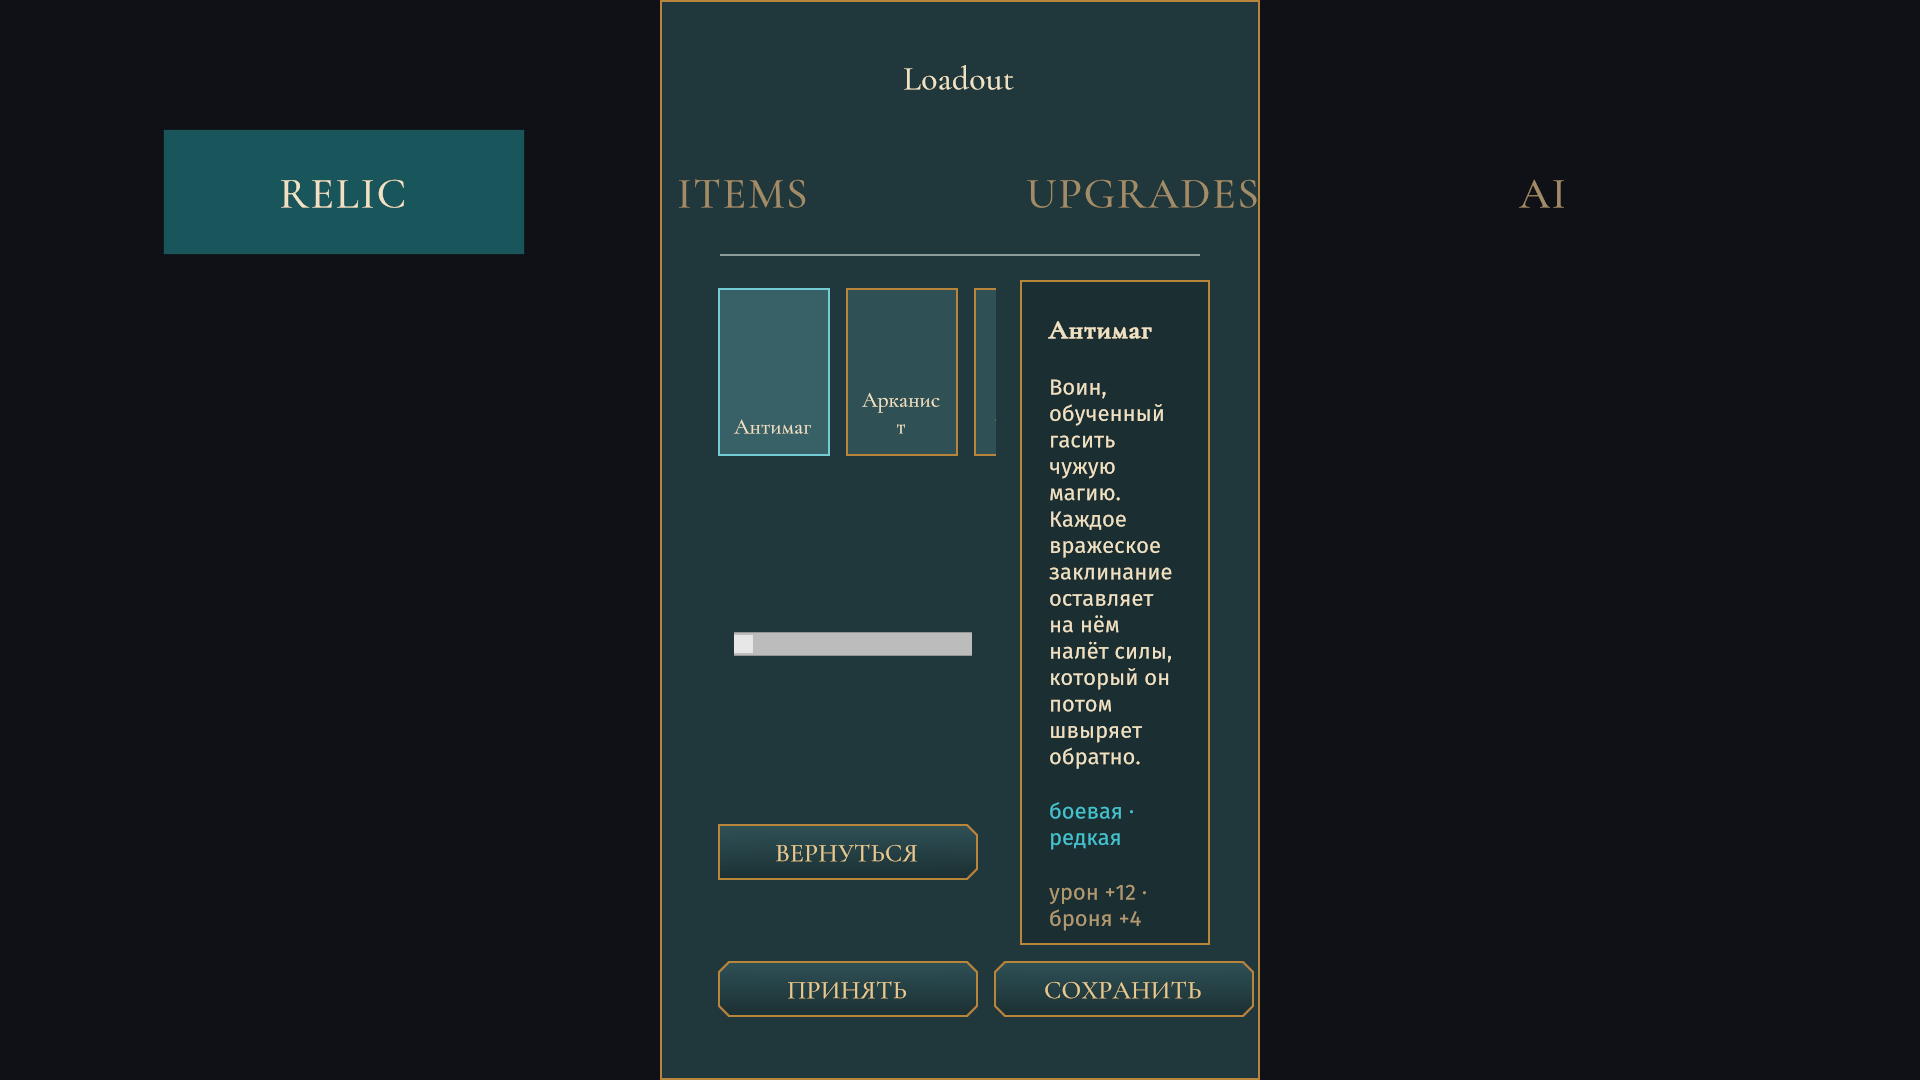
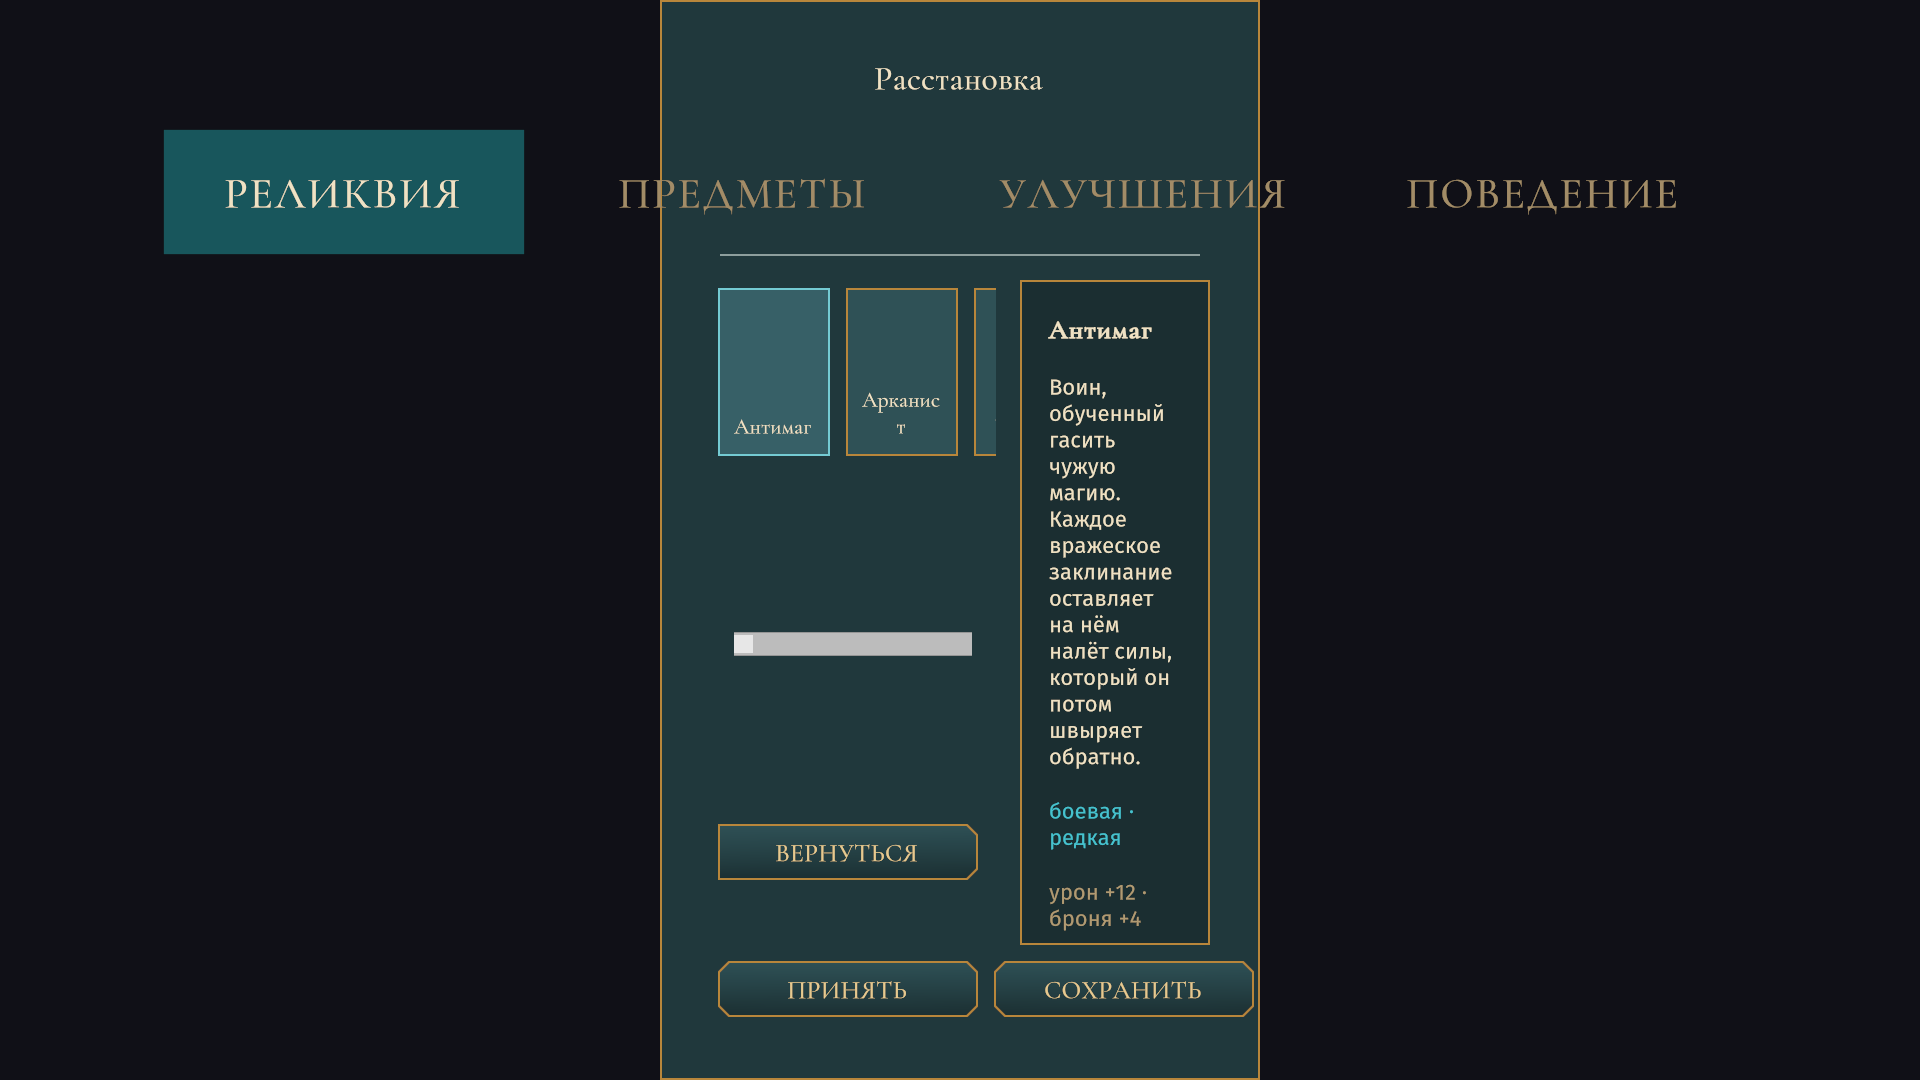
fix(ui): the loadout screen speaks Russian, and a card no longer names an id
Three text findings from the frames.

The loadout screen carried "Loadout" and "Relic / Items / Upgrades / AI"
written straight into the markup - past the keys and past the player's
language. The markup now holds the Russian fallback and the view routes the
keys, same shape as every other screen.

The vessel card's relic button read «Реликвия «relic.bulwark» →» - a raw
content id shown to the player. It takes the arcana title now.

The camp button said "Нанять сосуда (или заменить старого)"; the parenthesis
is an explanation, and it did not fit. Max's call: the button says what it
does, the explaining goes to a tooltip.

Relic names in Latin were checked before touching: The Antimage and friends are
a GDD decision - the arcana title - and stay.

diff --git a/Assets/_Project/Scripts/UI/LoadoutScreenView.cs b/Assets/_Project/Scripts/UI/LoadoutScreenView.cs
@@ -1,4 +1,4 @@
-using System;
+using System;
 using System.Collections.Generic;
 using Guildmaster.Data.Definitions;
 using Guildmaster.UI.Components;
@@ -91,7 +91,16 @@ namespace Guildmaster.UI
                 view._cards.Add((relic, card));
             }
 
-            // Табы-заглушки (кроме Релик) — недоступны (структура на будущее: Предметы/Улучшения/AI).
+            // Заголовок и табы: разметка несёт RU-запас, ключ проводится здесь. До 23.08.2026 они
+            // стояли латиницей прямо в UXML («Loadout», «Relic/Items/Upgrades/AI») — мимо ключей и
+            // мимо языка игрока.
+            Localize(tree.Q<Label>("loadout-title"), "ui.loadout.title", localize);
+            Localize(tree.Q<Button>("tab-relic"),    "ui.loadout.tab.relic", localize);
+            Localize(tree.Q<Button>("tab-items"),    "ui.loadout.tab.items", localize);
+            Localize(tree.Q<Button>("tab-upgrades"), "ui.loadout.tab.upgrades", localize);
+            Localize(tree.Q<Button>("tab-ai"),       "ui.loadout.tab.ai", localize);
+
+            // Табы-заглушки (кроме Реликвии) — недоступны (структура на будущее).
             Disable(tree.Q<Button>("tab-items"));
             Disable(tree.Q<Button>("tab-upgrades"));
             Disable(tree.Q<Button>("tab-ai"));
@@ -132,5 +141,22 @@ namespace Guildmaster.UI
         public RelicData FirstRelic => _cards.Count > 0 ? _cards[0].Relic : null;
 
         private static void Disable(Button b) { if (b != null) b.SetEnabled(false); }
+
+        /// <summary>
+        /// Ставит перевод, оставляя написанное в разметке как RU-запас.
+        /// </summary>
+        /// <remarks>
+        /// Пустой ответ локализатора означает «перевода нет» — тогда на экране остаётся то, что
+        /// лежит в UXML. Затирать запас пустой строкой значило бы получить безымянный элемент там,
+        /// где перевод просто не завели.
+        /// </remarks>
+        private static void Localize(VisualElement element, string key, Func<string, string> localize)
+        {
+            string value = localize?.Invoke(key);
+            if (string.IsNullOrEmpty(value)) return;
+
+            if (element is Button button) button.text = value;
+            else if (element is Label label) label.text = value;
+        }
     }
 }

diff --git a/Assets/_Project/Scripts/UI/CampScreenView.cs b/Assets/_Project/Scripts/UI/CampScreenView.cs
@@ -1,4 +1,4 @@
-using System;
+using System;
 using Guildmaster.Guild;
 using Guildmaster.UI.Components;
 using UnityEngine.UIElements;
@@ -115,7 +115,9 @@ namespace Guildmaster.UI
             CampAction.Empower    => "Усилиться",
             CampAction.CopyRelic  => "Получить копию реликвии",
             CampAction.Cleanse    => "Снять негативное последствие",
-            CampAction.HireVessel => "Нанять сосуда (или заменить старого)",
+            // Скобка про замену — ПОЯСНЕНИЕ, и в подпись кнопки оно не помещалось: текст выходил за
+            // пластину и рисовался поверх соседей (кадр 23.08.2026). Место пояснению — тултип.
+            CampAction.HireVessel => "Нанять Сосуда",
             _                     => "Пройти мимо",
         };
     }

diff --git a/Assets/_Project/Scripts/UI/VesselCardView.cs b/Assets/_Project/Scripts/UI/VesselCardView.cs
@@ -155,7 +155,11 @@ namespace Guildmaster.UI
             if (!string.IsNullOrEmpty(s.RelicId))
             {
                 string relicId = s.RelicId;
-                var toRelic = new PlateButton { text = string.Format(L("ui.vcard.to_relic", "Реликвия «{0}» →"), relicId) };
+                // Титул арканы, а не строковый id: до 23.08.2026 кнопка звалась «Реликвия «relic.bulwark» →».
+                var toRelic = new PlateButton
+                {
+                    text = string.Format(L("ui.vcard.to_relic", "Реликвия «{0}» →"), ContentTitle.Arcana(relicId)),
+                };
                 toRelic.AddToClassList("gm-vcard__to-relic");
                 toRelic.clicked += () => onRelic?.Invoke(relicId);
                 gear.Add(toRelic);
